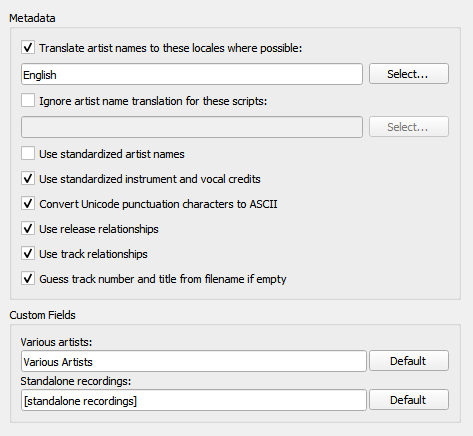
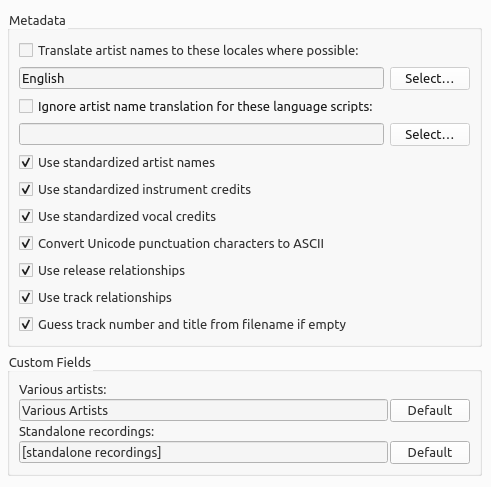
Update screen shot and description for split standardize inst & vocals

diff --git a/config/options_metadata.rst b/config/options_metadata.rst
@@ -46,9 +46,13 @@
 
       If the "Translate artist names" option above is also checked, it will override this option if a suitable alias is found.
 
-**Use standardized instrument and vocal credits**
+**Use standardized instrument credits**
 
-   Check to only use standard names for instruments and vocals in performer relationships. Uncheck to use the instruments and vocals as credited in the relationship.
+   Check to only use standard names for instruments in performer relationships. Uncheck to use the instruments as credited in the relationship.
+
+**Use standardized vocal credits**
+
+   Check to only use standard names for vocals in performer relationships. Uncheck to use the vocals as credited in the relationship.
 
 **Convert Unicode punctuation characters to ASCII**
 
